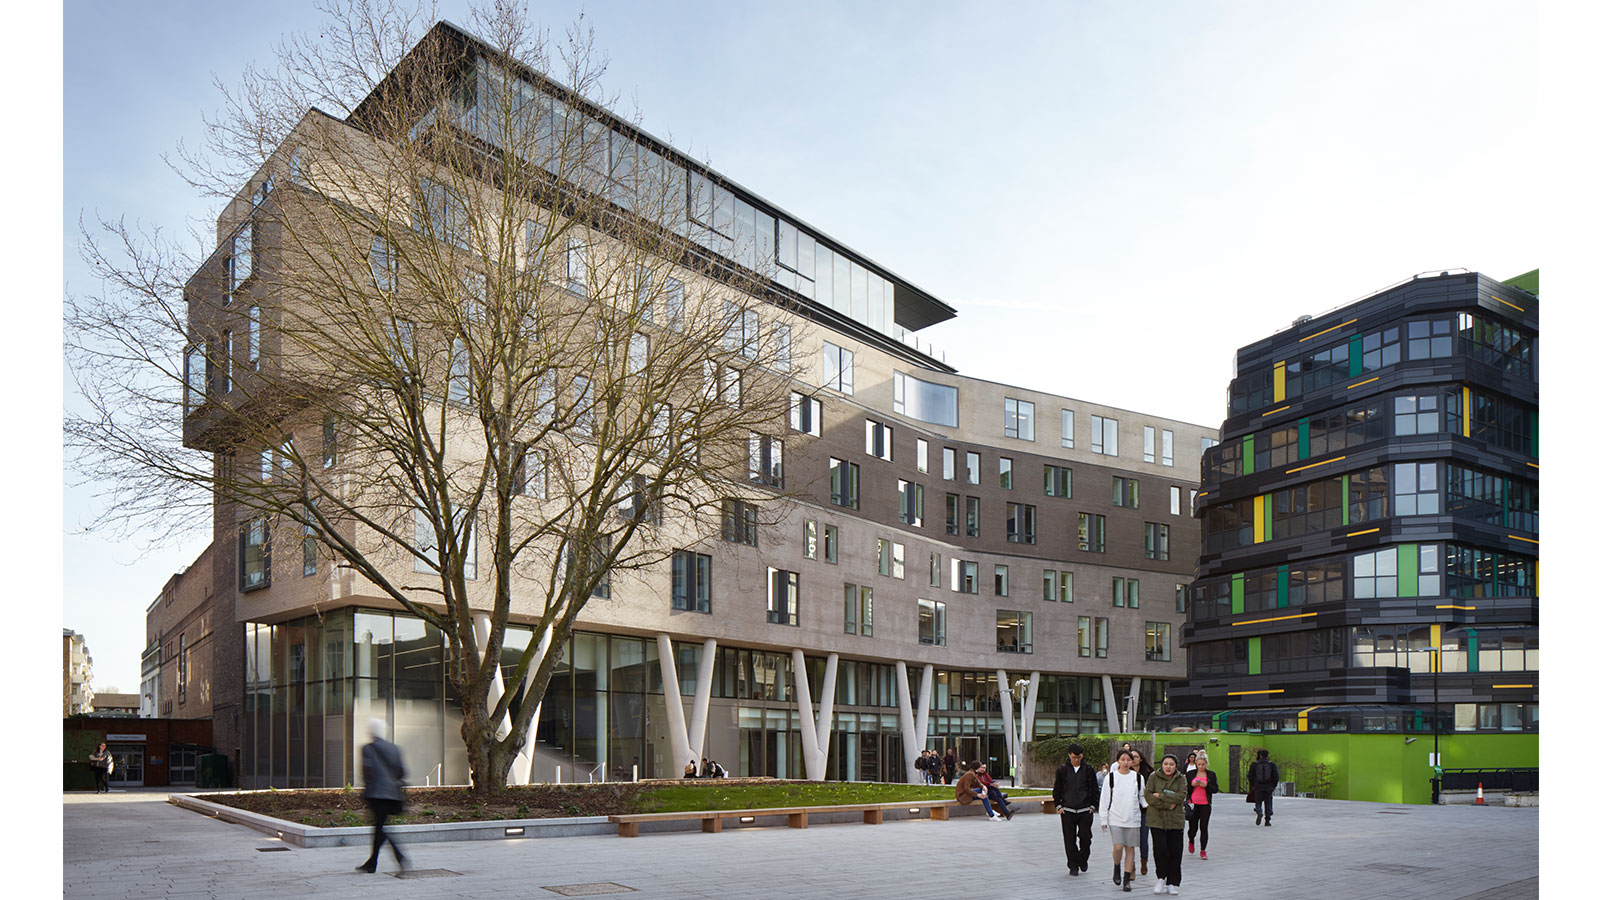
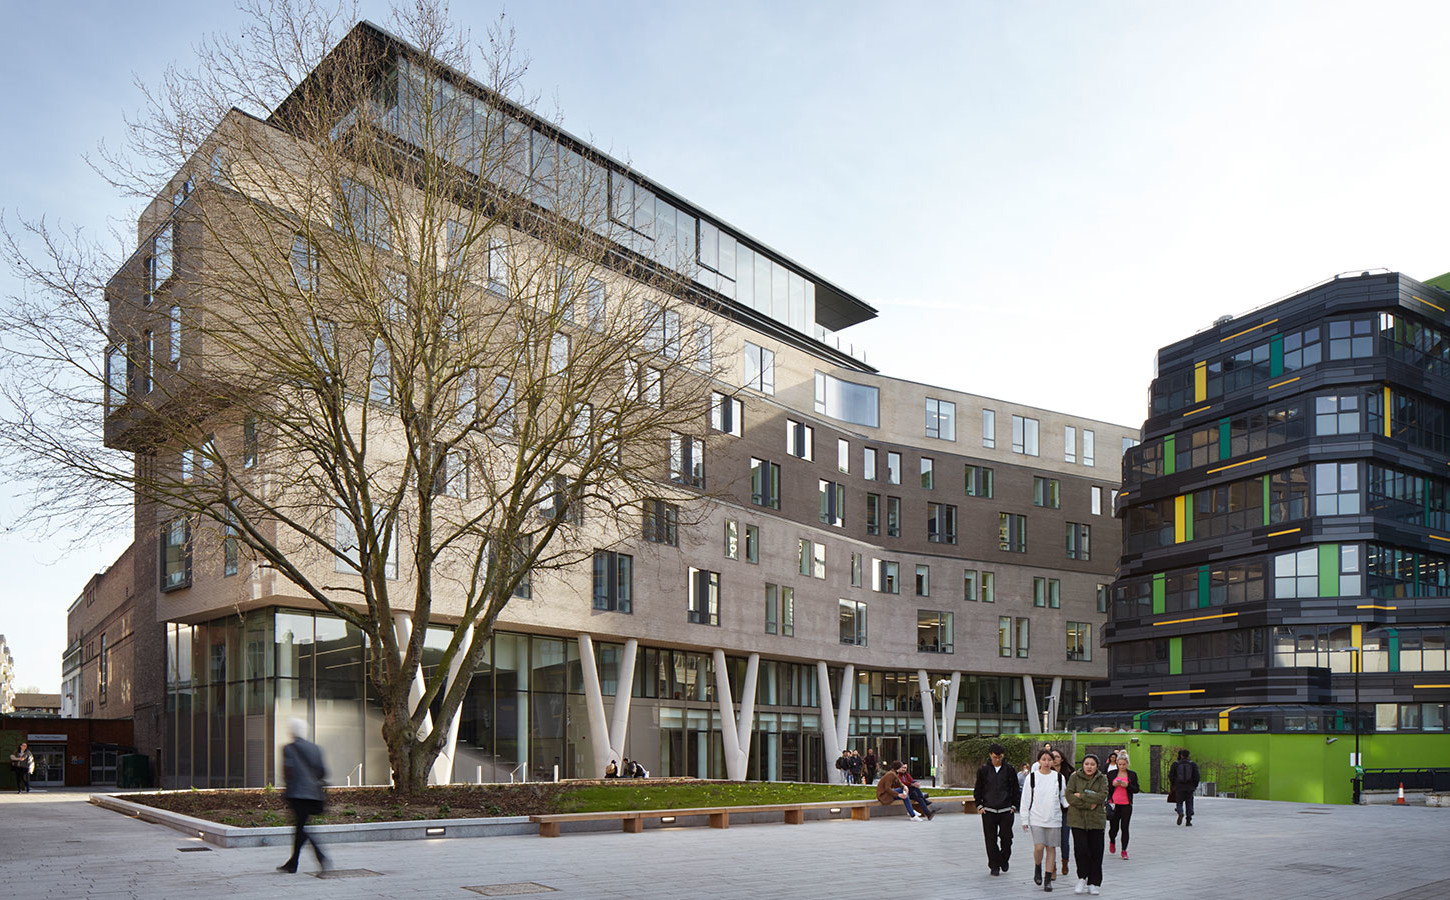
login image added

diff --git a/Boundary/ImageBackgroundPanel.java b/Boundary/ImageBackgroundPanel.java
@@ -9,11 +9,10 @@ import java.io.*;
 public class ImageBackgroundPanel extends JPanel {
 
     private BufferedImage image; // the original image
-    private double i; // the horizontal scrolling factor
     private int width; // the width of the panel
     private int height; // the height of the panel
 
-    public ImageBackgroundPanel(String imagePath, double i) {
+    public ImageBackgroundPanel(String imagePath, int windowHeight, double i) {
         // this.image is created from the image at imagePath
         this.image = null;
         try {
@@ -21,9 +20,7 @@ public class ImageBackgroundPanel extends JPanel {
         } catch (IOException e) {
             e.printStackTrace();
         }
-        this.i = i;
-        this.width = this.getWidth();
-        this.height = this.getHeight();
+        this.height = windowHeight;
         System.out.println("width: " + width + " height: " + height);
     }
 
@@ -34,17 +31,12 @@ public class ImageBackgroundPanel extends JPanel {
 
         // calculate the scaling factor based on the height ratio
         double scale = (double) height / image.getHeight();
-        // double scale = (double) height / image.getHeight();
 
         // calculate the scaled width and height of the image
         int scaledWidth = (int) (image.getWidth() * scale);
         int scaledHeight = (int) (image.getHeight() * scale);
 
-        // calculate the x coordinate of the image based on the scrolling factor
-        int x = (int) ((width - scaledWidth) * i);
-
         // draw the scaled and cropped image on the panel
-        g2d.drawImage(image, x, 0, scaledWidth, scaledHeight, this);
-        // g2d.drawImage(image, 0, 0, this.getWidth(), this.getHeight(), this);
+        g2d.drawImage(image, 0, 0, scaledWidth, scaledHeight, this);
     }
 }

diff --git a/Boundary/Login.java b/Boundary/Login.java
@@ -36,7 +36,7 @@ public class Login extends JFrame implements ActionListener {
 
         GridBagConstraints gbc = new GridBagConstraints();
 
-        JPanel picPanel = new ImageBackgroundPanel("Images\\Campus\\3.jpg", 1);
+        JPanel picPanel = new ImageBackgroundPanel("Images\\Campus\\4.jpg", 600, 1);
         JPanel vertBlank1 = new JPanel();
         JPanel contentPanel = new JPanel(new GridBagLayout());
         JPanel vertBlank2 = new JPanel();
